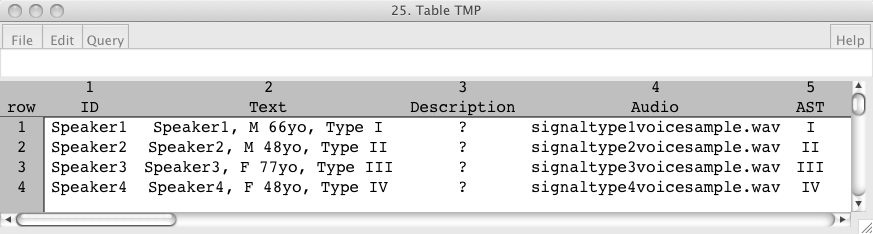
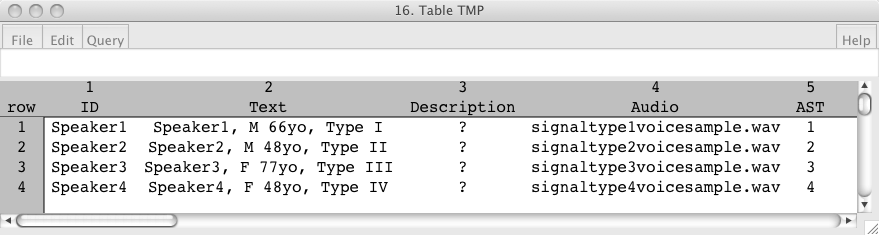
Corrected  ManPages and figure, and converted to HTML and PDF

diff --git a/HTML/Adding_speaker_information.html b/HTML/Adding_speaker_information.html
@@ -60,30 +60,31 @@ with the field names separated by tabs.</p>
 <dd>
 4: Relative path to the audio file
 <dd>
-5: Manually entered <a href="Acoustic_Signal_Typing.html">Acoustic Signal Type</a>, i.e., <i>I</i>, <i>II</i>, <i>III</i>, or <i>IV</i>
+5: Manually entered <a href="Acoustic_Signal_Typing.html">Acoustic Signal Type</a>, i.e., <i>1</i>, <i>2</i>, <i>3</i>, or <i>4</i>
 </dl>
 <p>
 If the table contains a path to a sound file, this file will be opened automatically 
 when the record is chosen</p>
 <p>
-Missing columns are automatically generated when the table is read. So, a table without the Description and 
+Missing columns are automatically generated when the table is read. So, if a table without the Description and 
 AST columns is read, two empty columns with the labels <i>Description</i> and <i>AST</i> are created.</p>
 <p>
 An example file:</p>
 <code>
 ID          Text                        Description Audio                      AST<br></code>
 <code>
-Speaker1    Speaker1, M 66yo, Type I    [comments]  signaltype1voicesample.wav I<br></code>
+Speaker1    Speaker1, M 66yo, Type I    [comments]  signaltype1voicesample.wav 1<br></code>
 <code>
-Speaker2    Speaker2, M 48yo, Type II   [comments]  signaltype2voicesample.wav II<br></code>
+Speaker2    Speaker2, M 48yo, Type II   [comments]  signaltype2voicesample.wav 2<br></code>
 <code>
-Speaker3    Speaker3, F 77yo, Type III  [comments]  signaltype3voicesample.wav III<br></code>
+Speaker3    Speaker3, F 77yo, Type III  [comments]  signaltype3voicesample.wav 3<br></code>
 <code>
-Speaker4    Speaker4, F 48yo, Type IV   [comments]  signaltype4voicesample.wav IV<br></code>
+Speaker4    Speaker4, F 48yo, Type IV   [comments]  signaltype4voicesample.wav 4<br></code>
 <p>
 A text-only file without the <i>.tsv</i> or <i>.Table</i> extension will be read as a list of <a href="http://www.fon.hum.uva.nl/praat/manual/Strings.html" target="_blank">Strings</a>. The table 
 with the speaker data is constructed from these <a href="http://www.fon.hum.uva.nl/praat/manual/Strings.html" target="_blank">Strings</a>. Each line in this file is interpreted as a <i>Text</i> field 
-and the (unique?) ID is extracted from the text upto the first punctuation mark.</p>
+and the (unique?) ID is extracted from the text upto the first punctuation mark. If a <i>Type: IV</i> or <i>Type: 4</i> like
+string is found in the line, the <i>AST</i> is set to this value.</p>
 <h3>
 Next:</h3>
 <ul>

diff --git a/HTML/NKI_TEVA.htm b/HTML/NKI_TEVA.htm
@@ -590,30 +590,31 @@ with the field names separated by tabs.</p>
 <dd>
 4: Relative path to the audio file
 <dd>
-5: Manually entered <a href="#Acoustic_Signal_Typing">Acoustic Signal Type</a>, i.e., <i>I</i>, <i>II</i>, <i>III</i>, or <i>IV</i>
+5: Manually entered <a href="#Acoustic_Signal_Typing">Acoustic Signal Type</a>, i.e., <i>1</i>, <i>2</i>, <i>3</i>, or <i>4</i>
 </dl>
 <p>
 If the table contains a path to a sound file, this file will be opened automatically 
 when the record is chosen</p>
 <p>
-Missing columns are automatically generated when the table is read. So, a table without the Description and 
+Missing columns are automatically generated when the table is read. So, if a table without the Description and 
 AST columns is read, two empty columns with the labels <i>Description</i> and <i>AST</i> are created.</p>
 <p>
 An example file:</p>
 <code>
 ID          Text                        Description Audio                      AST<br></code>
 <code>
-Speaker1    Speaker1, M 66yo, Type I    [comments]  signaltype1voicesample.wav I<br></code>
+Speaker1    Speaker1, M 66yo, Type I    [comments]  signaltype1voicesample.wav 1<br></code>
 <code>
-Speaker2    Speaker2, M 48yo, Type II   [comments]  signaltype2voicesample.wav II<br></code>
+Speaker2    Speaker2, M 48yo, Type II   [comments]  signaltype2voicesample.wav 2<br></code>
 <code>
-Speaker3    Speaker3, F 77yo, Type III  [comments]  signaltype3voicesample.wav III<br></code>
+Speaker3    Speaker3, F 77yo, Type III  [comments]  signaltype3voicesample.wav 3<br></code>
 <code>
-Speaker4    Speaker4, F 48yo, Type IV   [comments]  signaltype4voicesample.wav IV<br></code>
+Speaker4    Speaker4, F 48yo, Type IV   [comments]  signaltype4voicesample.wav 4<br></code>
 <p>
 A text-only file without the <i>.tsv</i> or <i>.Table</i> extension will be read as a list of <a href="http://www.fon.hum.uva.nl/praat/manual/Strings.html" target="_blank">Strings</a>. The table 
 with the speaker data is constructed from these <a href="http://www.fon.hum.uva.nl/praat/manual/Strings.html" target="_blank">Strings</a>. Each line in this file is interpreted as a <i>Text</i> field 
-and the (unique?) ID is extracted from the text upto the first punctuation mark.</p>
+and the (unique?) ID is extracted from the text upto the first punctuation mark. If a <i>Type: IV</i> or <i>Type: 4</i> like
+string is found in the line, the <i>AST</i> is set to this value.</p>
 <h3>
 Next:</h3>
 <ul>
